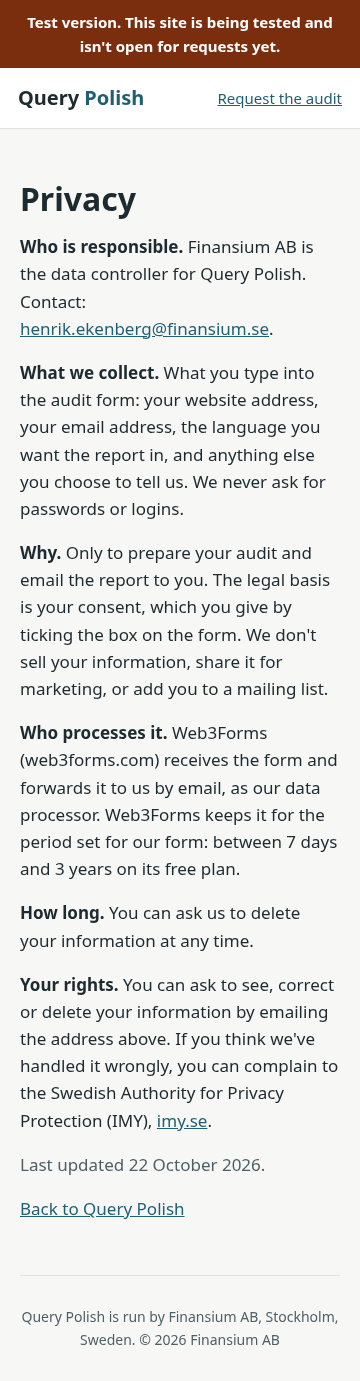
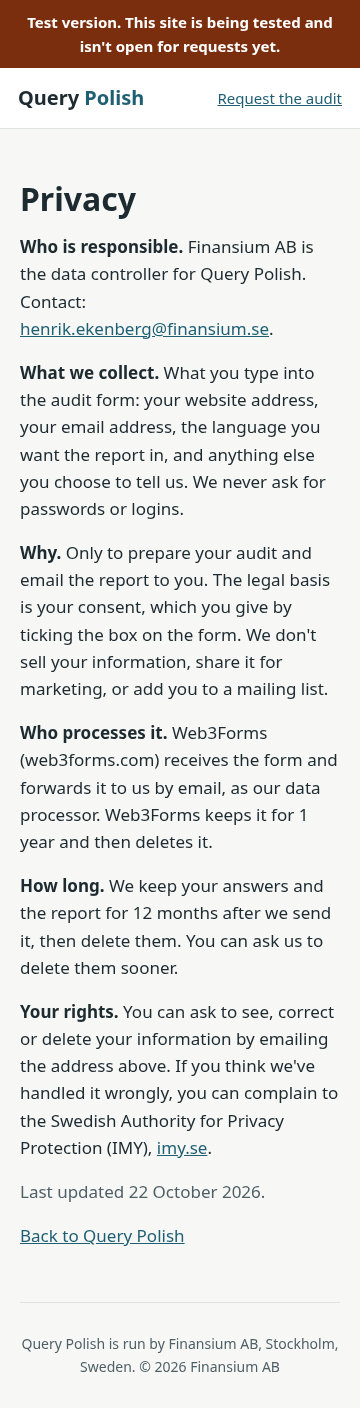
copy-ai: retention filled (Web3Forms 1 year, ours 12 months) per Warren/Henrik

diff --git a/docs/privacy/index.html b/docs/privacy/index.html
@@ -18,8 +18,8 @@
 <p><b>Who is responsible.</b> Finansium AB is the data controller for Query Polish. Contact: <a href="mailto:henrik.ekenberg@finansium.se">henrik.ekenberg@finansium.se</a>.</p>
 <p><b>What we collect.</b> What you type into the audit form: your website address, your email address, the language you want the report in, and anything else you choose to tell us. We never ask for passwords or logins.</p>
 <p><b>Why.</b> Only to prepare your audit and email the report to you. The legal basis is your consent, which you give by ticking the box on the form. We don't sell your information, share it for marketing, or add you to a mailing list.</p>
-<p><b>Who processes it.</b> Web3Forms (web3forms.com) receives the form and forwards it to us by email, as our data processor. Web3Forms keeps it for the period set for our form: between 7 days and 3 years on its free plan.</p>
-<p><b>How long.</b> You can ask us to delete your information at any time.</p>
+<p><b>Who processes it.</b> Web3Forms (web3forms.com) receives the form and forwards it to us by email, as our data processor. Web3Forms keeps it for 1 year and then deletes it.</p>
+<p><b>How long.</b> We keep your answers and the report for 12 months after we send it, then delete them. You can ask us to delete them sooner.</p>
 <p><b>Your rights.</b> You can ask to see, correct or delete your information by emailing the address above. If you think we've handled it wrongly, you can complain to the Swedish Authority for Privacy Protection (IMY), <a href="https://www.imy.se/">imy.se</a>.</p>
 <p class="muted">Last updated 22 October 2026.</p>
 <p><a href="../">Back to Query Polish</a></p>

diff --git a/docs/index.html b/docs/index.html
@@ -57,7 +57,7 @@
 </section>
 <section>
 <h2>Privacy</h2>
-<p>We use what you send only to prepare your audit and email it to you. We don't sell it, share it for marketing, or add you to a mailing list. You can ask us to delete it at any time. The <a href="privacy/">privacy note</a> has the details. This page uses no cookies or analytics. What you send in the form reaches us through Web3Forms, which keeps it for the period set for our form: between 7 days and 3 years on its free plan.</p>
+<p>We use what you send only to prepare your audit and email it to you. We don't sell it, share it for marketing, or add you to a mailing list. You can ask us to delete it at any time. The <a href="privacy/">privacy note</a> has the details. This page uses no cookies or analytics. What you send in the form reaches us through Web3Forms, which keeps it for 1 year and then deletes it.</p>
 </section>
 <section id="audit">
 <h2>Request your free audit</h2>

diff --git a/tests/run_tests.py b/tests/run_tests.py
@@ -1,3 +1,4 @@
+import pathlib
 """Query Polish test-deploy checks. Local: QP_PORT=28765 python3 run_tests.py   Live: QP_BASE=https://auberga-oak.github.io/querypolish-site python3 run_tests.py
 Every request leaving the site origin is aborted; the Web3Forms request is intercepted (aborted or answered by a local mock). Nothing is sent."""
 import json, re, sys, os, threading, http.server, socketserver, urllib.request
@@ -59,7 +60,7 @@ with sync_playwright() as pw:
                     ok('contact@' not in src,f'{path}: no contact@ address')
                     ok(not re.search(r'not for (shops|restaurants)|inte för butiker',txt,re.I),f'{path}: no "not for shops or restaurants"')
                     ok(not re.search(r'every (week)?day|varje vardag|daily change',txt,re.I),f'{path}: no daily-change subscription wording')
-                    ok('12 months' not in txt and 'stores nothing' not in txt.lower(),f'{path}: no "12 months" / "stores nothing"')
+                    ok('stores nothing' not in txt.lower() and '7 days and 3 years' not in txt,f'{path}: no "stores nothing" / no retention range')
                     ok(not re.search(r'\bwe\b[^.]{0,30}\b(put|ask|check|test|run)\b[^.]{0,60}\b(ChatGPT|Perplexity|AI Overviews|AI tools?)|answers? (mention|name|include)s?\b|whether the answers|does the (AI )?answer',txt,re.I),f'{path}: no claim that we check AI answers')
                     ok('keeps it for 30 days' not in txt,f'{path}: no unverified 30-day retention claim')
                     ok(len(re.findall(r'reads? (every|the) report',txt,re.I))<=1,f'{path}: report review mentioned at most once')
@@ -96,6 +97,9 @@ with sync_playwright() as pw:
         ok('add us as a user in Google Search Console and Google Analytics. You never share a password.' in t,'home: Zinsser GSC/GA4 line')
         ok('This page uses no cookies or analytics.' in t,'home: storage line present')
         ok('Your Google Business Profile, if we can find one: categories,' in t,'home: Zinsser GBP edit')
+        ok('Web3Forms, which keeps it for 1 year and then deletes it.' in t,'home: Web3Forms retention 1 year')
+        pv=pathlib.Path(__file__).resolve().parent.parent.joinpath('docs/privacy/index.html').read_text()
+        ok('Web3Forms keeps it for 1 year and then deletes it.' in pv and 'We keep your answers and the report for 12 months after we send it, then delete them.' in pv,'privacy: Web3Forms 1 year + our 12 months')
     posts=[]
     def backend(route): posts.append(route.request.post_data); route.abort()
     p.route('https://api.web3forms.com/**',backend)
